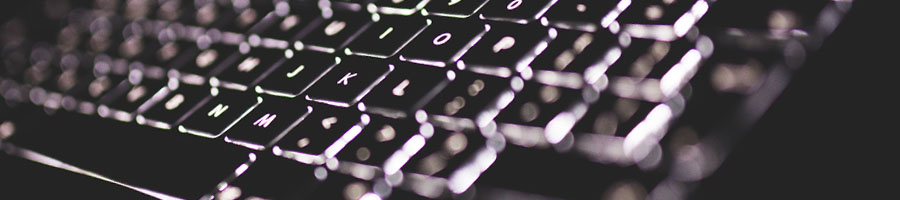
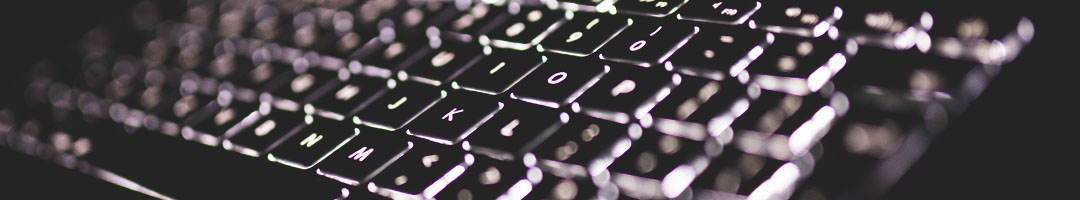
Change headings on the images and layouts

diff --git a/index.html b/index.html
@@ -138,7 +138,7 @@ header h1{
   
   text-align: left;
   font-size: 45px;
-  background-color: #2b333a;
+  background-color: #443417;
   padding-left: 40px;
   
 }
@@ -213,27 +213,41 @@ a:hover {
 }
 .cover-image{
   background-image: url("assets/images/cover.jpg");
-  background-size: contain;
+  background-size:100%;
   background-repeat: no-repeat;
+  
   display:flex;
-  flex-direction: row;
-  width:100%;
+  flex-wrap:wrap;
+  flex-direction: column;
+  justify-content: flex-end;
+  /* width:100%; */
   height:200px;
   margin:0; /* This section can be seperately addressed*/
   border:0; /* This section can be seperately addressed*/
 }
 
 .cover-image h2{
-  align-items: flex-end;
+  /* text-align: right; */
+  font-size: 25px;
+  background-color: #443417;
+  align-self:flex-end;
+  padding:1px;
+  margin-right: 20px;
+  margin-bottom:10px;
+  color: #fff;
+  padding-left: 3px;
+  padding-bottom:3px;
+  
+  /* align-items: flex-end;
   background-color: aqua;
   padding:3px;
-  margin-left:10px;
+  margin-left:10px; */
 }
 
-.image-title{
+/* .image-title{
   
   overflow-x: hidden;
-}
+} */
 
 p {
   font-size: 18px;
@@ -308,6 +322,7 @@ p {
           <li><a href="#about-me">About Me</a></li>
           <li><a href="#portfolio">Portfolio</a></li>
           <li><a href="#contact">Contact Me</a></li>
+          <li><a href="#portfolio">Resume</a></li>
       </ul>
     </nav> 
   </header>
@@ -317,7 +332,7 @@ p {
     <!-- Cover image with subtitle -->
     <div class="cover-image">
       <!-- <img src="assets/images/cover.jpg"> -->
-      <h2 class="image-title">Full stack web developer</h2> <!--NEET TO WORK ON THIS--> 
+      <h2 class="image-title">Hello! I am a Full Stack Web Developer</h2> <!--NEET TO WORK ON THIS--> 
     </div>
     
     <!-- About me section -->
